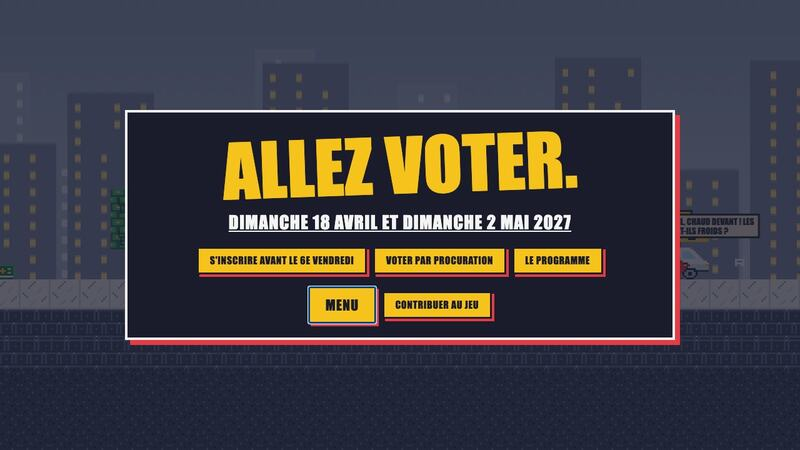
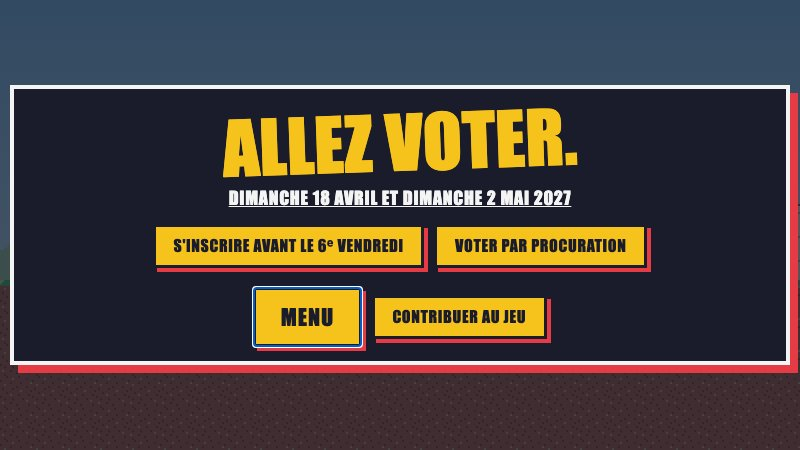
fix(vote): l'appel au vote seul, le programme ailleurs
Valentin, 17 novembre 2026 : « Séparer les deux ».

- L'écran « Allez voter. » ne garde que les dates (18 avril et 2 mai 2027),
  l'inscription et la procuration. Le bouton « Le programme » qui suivait
  l'appel est retiré, et l'écran ne débloque plus les propositions.
- Le programme reste accessible : À propos → « Le programme de L'Avenir en
  commun », qui ouvre le rayon Propositions de la Collection et le débloque.
  L'indice d'une proposition en silhouette le dit (« À découvrir dans
  À propos, … ») ; la plupart se débloquent aussi en jouant, par les
  personnages qui les portent.
- Le commentaire « le programme ; pas de consigne » de final() est corrigé.
  Rien dans docs/ ni dans la charte ne disait « aucune consigne de vote ».

Captures : docs/captures/publication-vote-*.png,
docs/captures/publication-programme-*.png ; docs/captures/appel-au-vote.jpg
(README) refaite.

Audit avant publication, n° 4.

diff --git a/src/client/ui.js b/src/client/ui.js
@@ -367,11 +367,16 @@ export class Screens {
 
   about() {
     const fold = (title, ...body) => h('details', {}, h('summary', {}, title), ...body);
+    const programme = Object.values(this.bundle.fiches).filter((x) => x.theme === 'programme');
     this.show('liste apropos',
       h('h2', {}, 'À propos'),
       h('p', {}, MENTION),
       h('p', {}, link(REPO, 'Le dépôt'), ' · ', link(`${REPO}/blob/main/CONTRIBUTING.md`, 'Contribuer'), ' · ',
         link(`${REPO}/blob/main/CHARTE.md`, 'La charte'), ' · ', h('a', { href: 'galerie.html' }, 'La Galerie')),
+      programme.length ? this.button('Le programme de L’Avenir en commun', () => {
+        this.go.learn(programme.map((x) => x.id)); // le lire, c'est le débloquer dans la Collection
+        this.collection('propositions', { back: () => this.about() });
+      }, 'discret') : null,
       measuring() && fold('Mesure d’audience anonyme (PostHog) : ni cookie, ni profil.',
         h('p', {}, 'Le jeu compte les visites, les parties par niveau et par héros (gagnée, perdue ou abandonnée, leur durée, la taille de la manif), les pistes de Radio Manif écoutées, passées ou mises en pause, et ce qui empêche de jouer : contenu ou musique injoignables, erreurs. Les visiteurs sont comptés par jour, sur les serveurs de PostHog, d’après une empreinte qui change chaque jour. Rien n’est écrit sur ton appareil pour cela, et rien de ce que tu écris dans l’Atelier ne part.')),
       fold('Mentions légales', ...legalNotice()),
@@ -563,18 +568,19 @@ export class Screens {
         this.button('Menu', () => this.go.quit(), 'discret')));
   }
 
-  /** Dernier écran : un appel au vote citoyen. Les dates, deux démarches, le programme ; pas de consigne. */
+  /**
+   * Dernier écran : un appel au vote citoyen, les dates et deux démarches, rien d'autre. Le programme est ailleurs
+   * (À propos, Collection) : Valentin, 17 novembre 2026, « Séparer les deux ».
+   */
   final() {
     const f = this.bundle.fiches;
     const [dates, ...steps] = VOTE_FICHES.map((id) => f[id]).filter(Boolean);
-    const programme = Object.values(f).filter((x) => x.theme === 'programme');
-    this.go.learn([dates, ...steps, ...programme].filter(Boolean).map((x) => x.id)); // ce qu'on lit ici entre dans la Collection
+    this.go.learn([dates, ...steps].filter(Boolean).map((x) => x.id)); // ce qu'on lit ici entre dans la Collection
     this.show('vote',
       h('h2', { className: 'appel' }, 'Allez voter.'),
       h('p', { className: 'dates' }, dates ? link(dates.source.url, 'Dimanche 18 avril et dimanche 2 mai 2027') : 'Dimanche 18 avril et dimanche 2 mai 2027'),
       h('nav', {},
-        steps.map((x) => h('a', { className: 'bouton', href: x.source.url, target: '_blank', rel: 'noopener' }, x.titre)),
-        programme.length ? this.button('Le programme', () => this.collection('propositions', { back: () => this.final() })) : null),
+        steps.map((x) => h('a', { className: 'bouton', href: x.source.url, target: '_blank', rel: 'noopener' }, x.titre))),
       h('div', { className: 'pied' },
         this.button('Menu', () => this.go.quit(), 'gros'),
         h('a', { className: 'bouton discret', href: REPO, target: '_blank', rel: 'noopener' }, 'Contribuer au jeu')));

diff --git a/tests/collection.test.js b/tests/collection.test.js
@@ -49,6 +49,7 @@ test('collection : chaque carte se débloque quelque part en jouant', () => {
   assert.deepEqual(hint('pancartes', 'TAXEZ LES RICHES'), ['dans la manif']);
   assert.deepEqual(hint('citations', 'melenchon-bruit-et-fureur'), ["L'Ingénieur du chaos"], 'les mots du héros viennent de sa citation');
   assert.deepEqual(hint('fiches', 'procuration'), ['à la fin de la campagne']);
+  assert.deepEqual(hint('fiches', 'programme-energie'), ['dans À propos, « Le programme de L’Avenir en commun »'], 'le programme n’est pas sur l’écran du vote');
   assert.deepEqual(hint('fiches', 'patrimoine-moitie'), ['en taxant une fortune']);
   assert.ok(hint('ennemis', 'gendarme-mobile').length >= 1, 'les renforts de l’hélicoptère comptent');
 });

diff --git a/src/client/collection.js b/src/client/collection.js
@@ -166,7 +166,8 @@ export function whereToFind(bundle, kind, item) {
       if (holders.length) return holders;
       if (Object.values(bundle.boss).some((b) => taxFiches(bundle, b).includes(item.id))) return ['en taxant une fortune'];
       if (item.theme === 'droits') return ['en libérant un camarade'];
-      if (item.theme === 'programme' || VOTE_FICHES.includes(item.id)) return ['à la fin de la campagne'];
+      if (item.theme === 'programme') return ['dans À propos, « Le programme de L’Avenir en commun »'];
+      if (VOTE_FICHES.includes(item.id)) return ['à la fin de la campagne'];
       return [];
     }
     default: return [];
